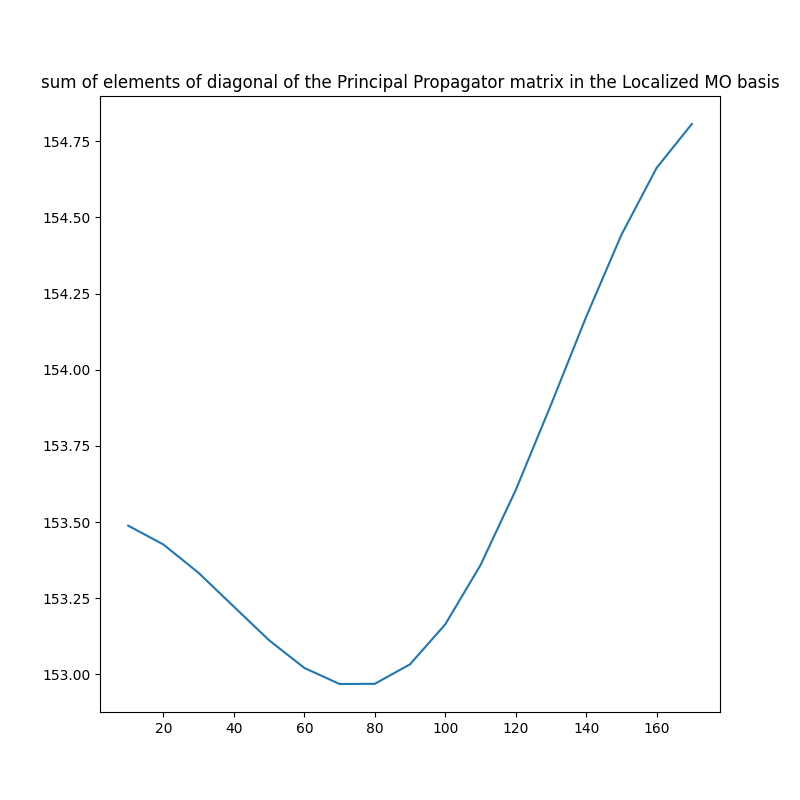
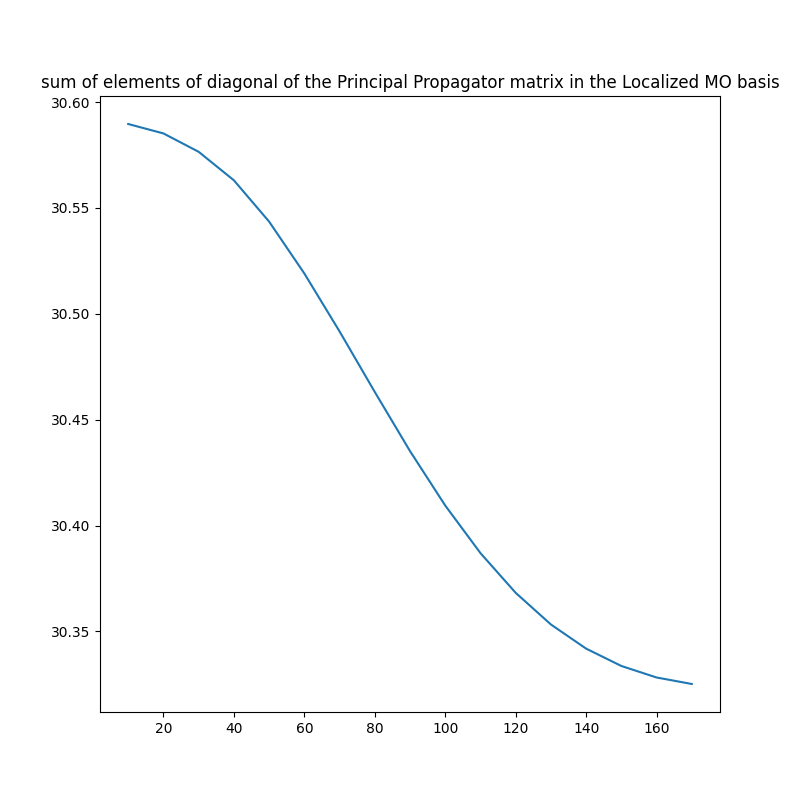
advances in calculate the M matrix of definite pathwys

diff --git a/full_cloppa/cloppa_full_pathways.py b/full_cloppa/cloppa_full_pathways.py
@@ -1,0 +1,38 @@
+import os
+import sys
+module_path = os.path.abspath(os.path.join('..'))
+
+if module_path not in sys.path:
+    sys.path.append(module_path)
+
+
+from src.help_functions import extra_functions
+from src.cloppa import Cloppa_full
+import plotly.express as px
+import pandas as pd
+import numpy as np
+import matplotlib.pyplot as plt
+
+
+M_list = [[],[]]
+M_diag_list = [[],[]]
+inv_M_diag_list = [[],[]]
+inv_M_list = [[],[]]
+
+for ang in range(1,18,1):
+    mol_loc, mo_coeff_loc, mo_occ_loc = extra_functions(molden_file=f"H2O2_mezcla_{ang*10}.molden").extraer_coeff
+    mol_H2O2 = '''
+    O1   1
+    O2   1 1.45643942
+    H3   2 0.97055295  1 99.79601616
+    H4   1 0.97055295  2 99.79601616  3 {}
+    '''.format(10*ang)
+    
+    full_M_obj = Cloppa_full(
+        mol_input=mol_H2O2,basis='6-31G**',
+        mo_coeff_loc=mo_coeff_loc, mol_loc=mol_loc, mo_occ_loc=mo_occ_loc)
+    
+    m = full_M_obj.pathways
+    
+    print(m)
+    print('the angle is {}'.format(ang*10))    

diff --git a/full_cloppa/extracting_occupied.py b/full_cloppa/extracting_occupied.py
@@ -1,0 +1,25 @@
+import os
+import sys
+module_path = os.path.abspath(os.path.join('..'))
+
+if module_path not in sys.path:
+    sys.path.append(module_path)
+
+
+from src.help_functions import extra_functions
+from src.cloppa import Cloppa_full
+import plotly.express as px
+import pandas as pd
+import numpy as np
+import matplotlib.pyplot as plt
+
+
+
+for ang in range(10,11,1):
+    a = extra_functions(
+        molden_file=f"H2O2_mezcla_{ang*10}.molden").mo_hibridization_for_list_several('O1 1s', 0.1, 1)
+    print(ang*10,a)
+    b = extra_functions(
+    molden_file=f"H2O2_mezcla_{ang*10}.molden").mo_hibridization_for_list_several('O2 1s', 0.1, 1)
+    print(ang*10,b)
+    print(a+b)

diff --git a/full_cloppa/cloppa_full_OH_occ.py b/full_cloppa/cloppa_full_OH_occ.py
@@ -29,11 +29,12 @@ for ang in range(1,18,1):
     '''.format(10*ang)
 
     viridx = np.where(mo_occ_loc==0)[0]
-    #occidx = np.where(mo_occ_loc==2)[0]
+    occidx = extra_functions(
+        molden_file=f"H2O2_mezcla_{ang*10}.molden").mo_hibridization_for_list_several('H', 0.1, 0.4)
     full_M_obj = Cloppa_full(
         mol_input=mol_H2O2,basis='6-31G**',
-        mo_coeff_loc=mo_coeff_loc, mol_loc=mol_loc, vir=viridx, occ=[0,1,2,3,4,5,6,7,8],
-        mo_occ_loc=mo_occ_loc)
+        mo_coeff_loc=mo_coeff_loc, mol_loc=mol_loc, vir=viridx, occ=occidx)#,
+        #mo_occ_loc=mo_occ_loc)
     
     m = full_M_obj.M
     
